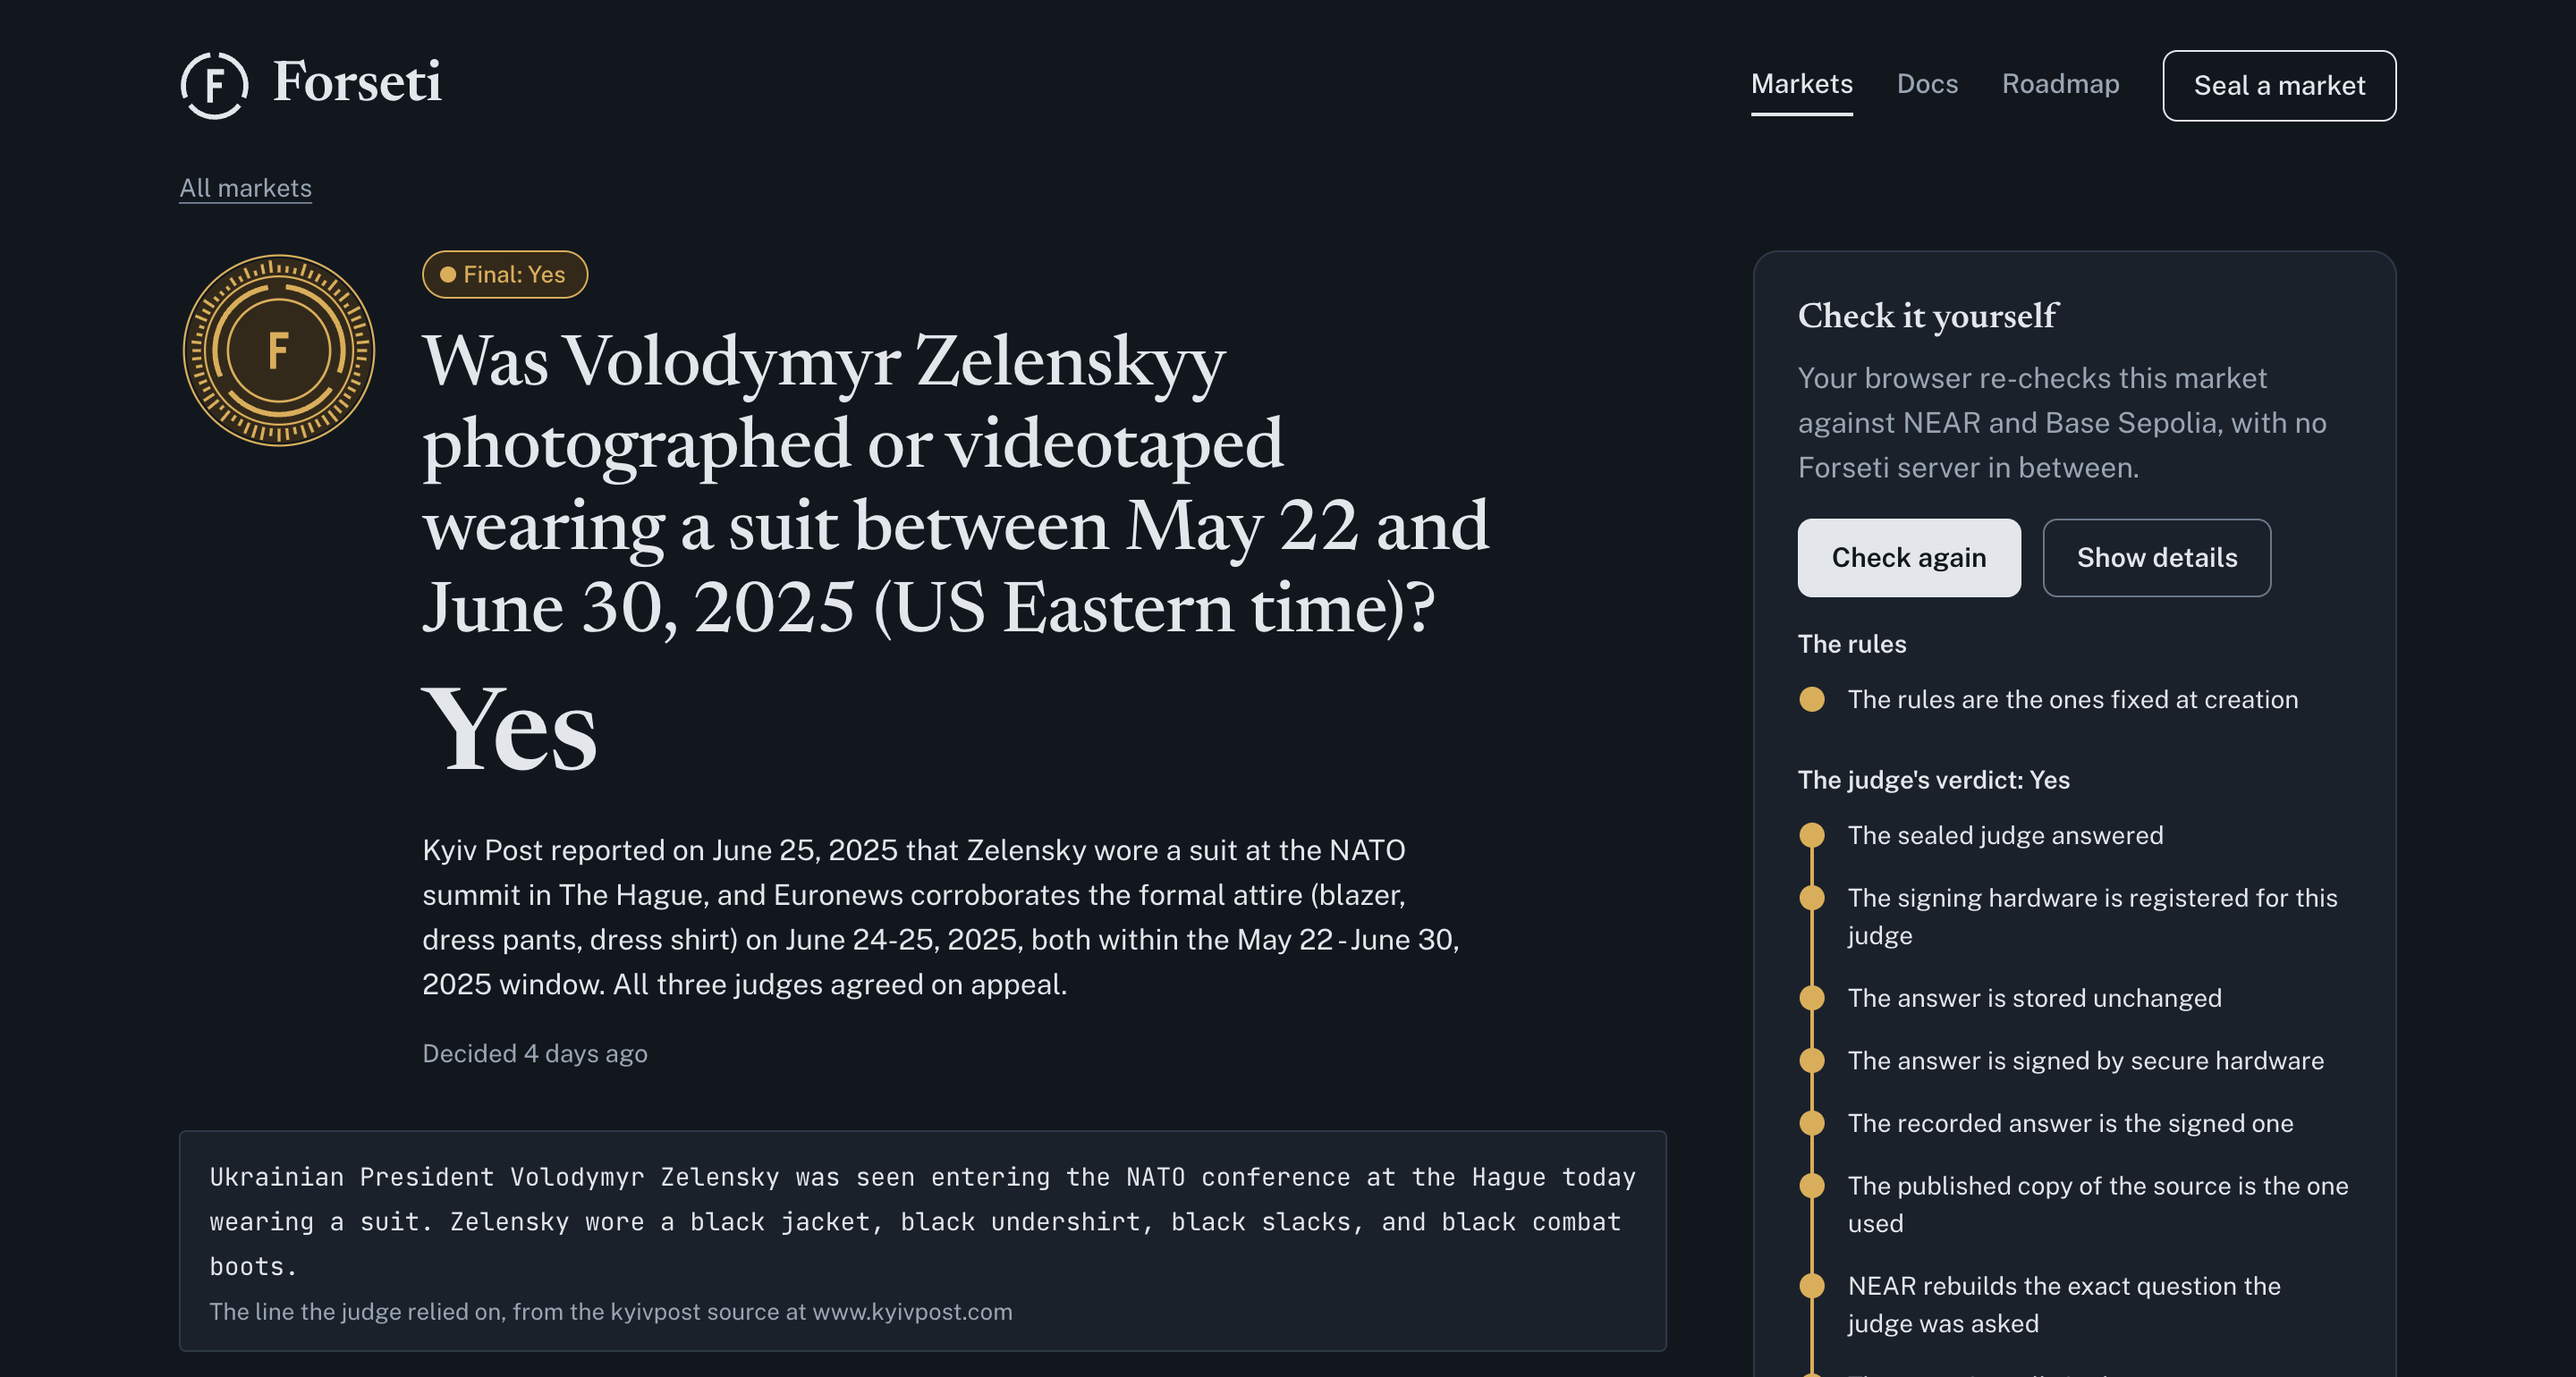
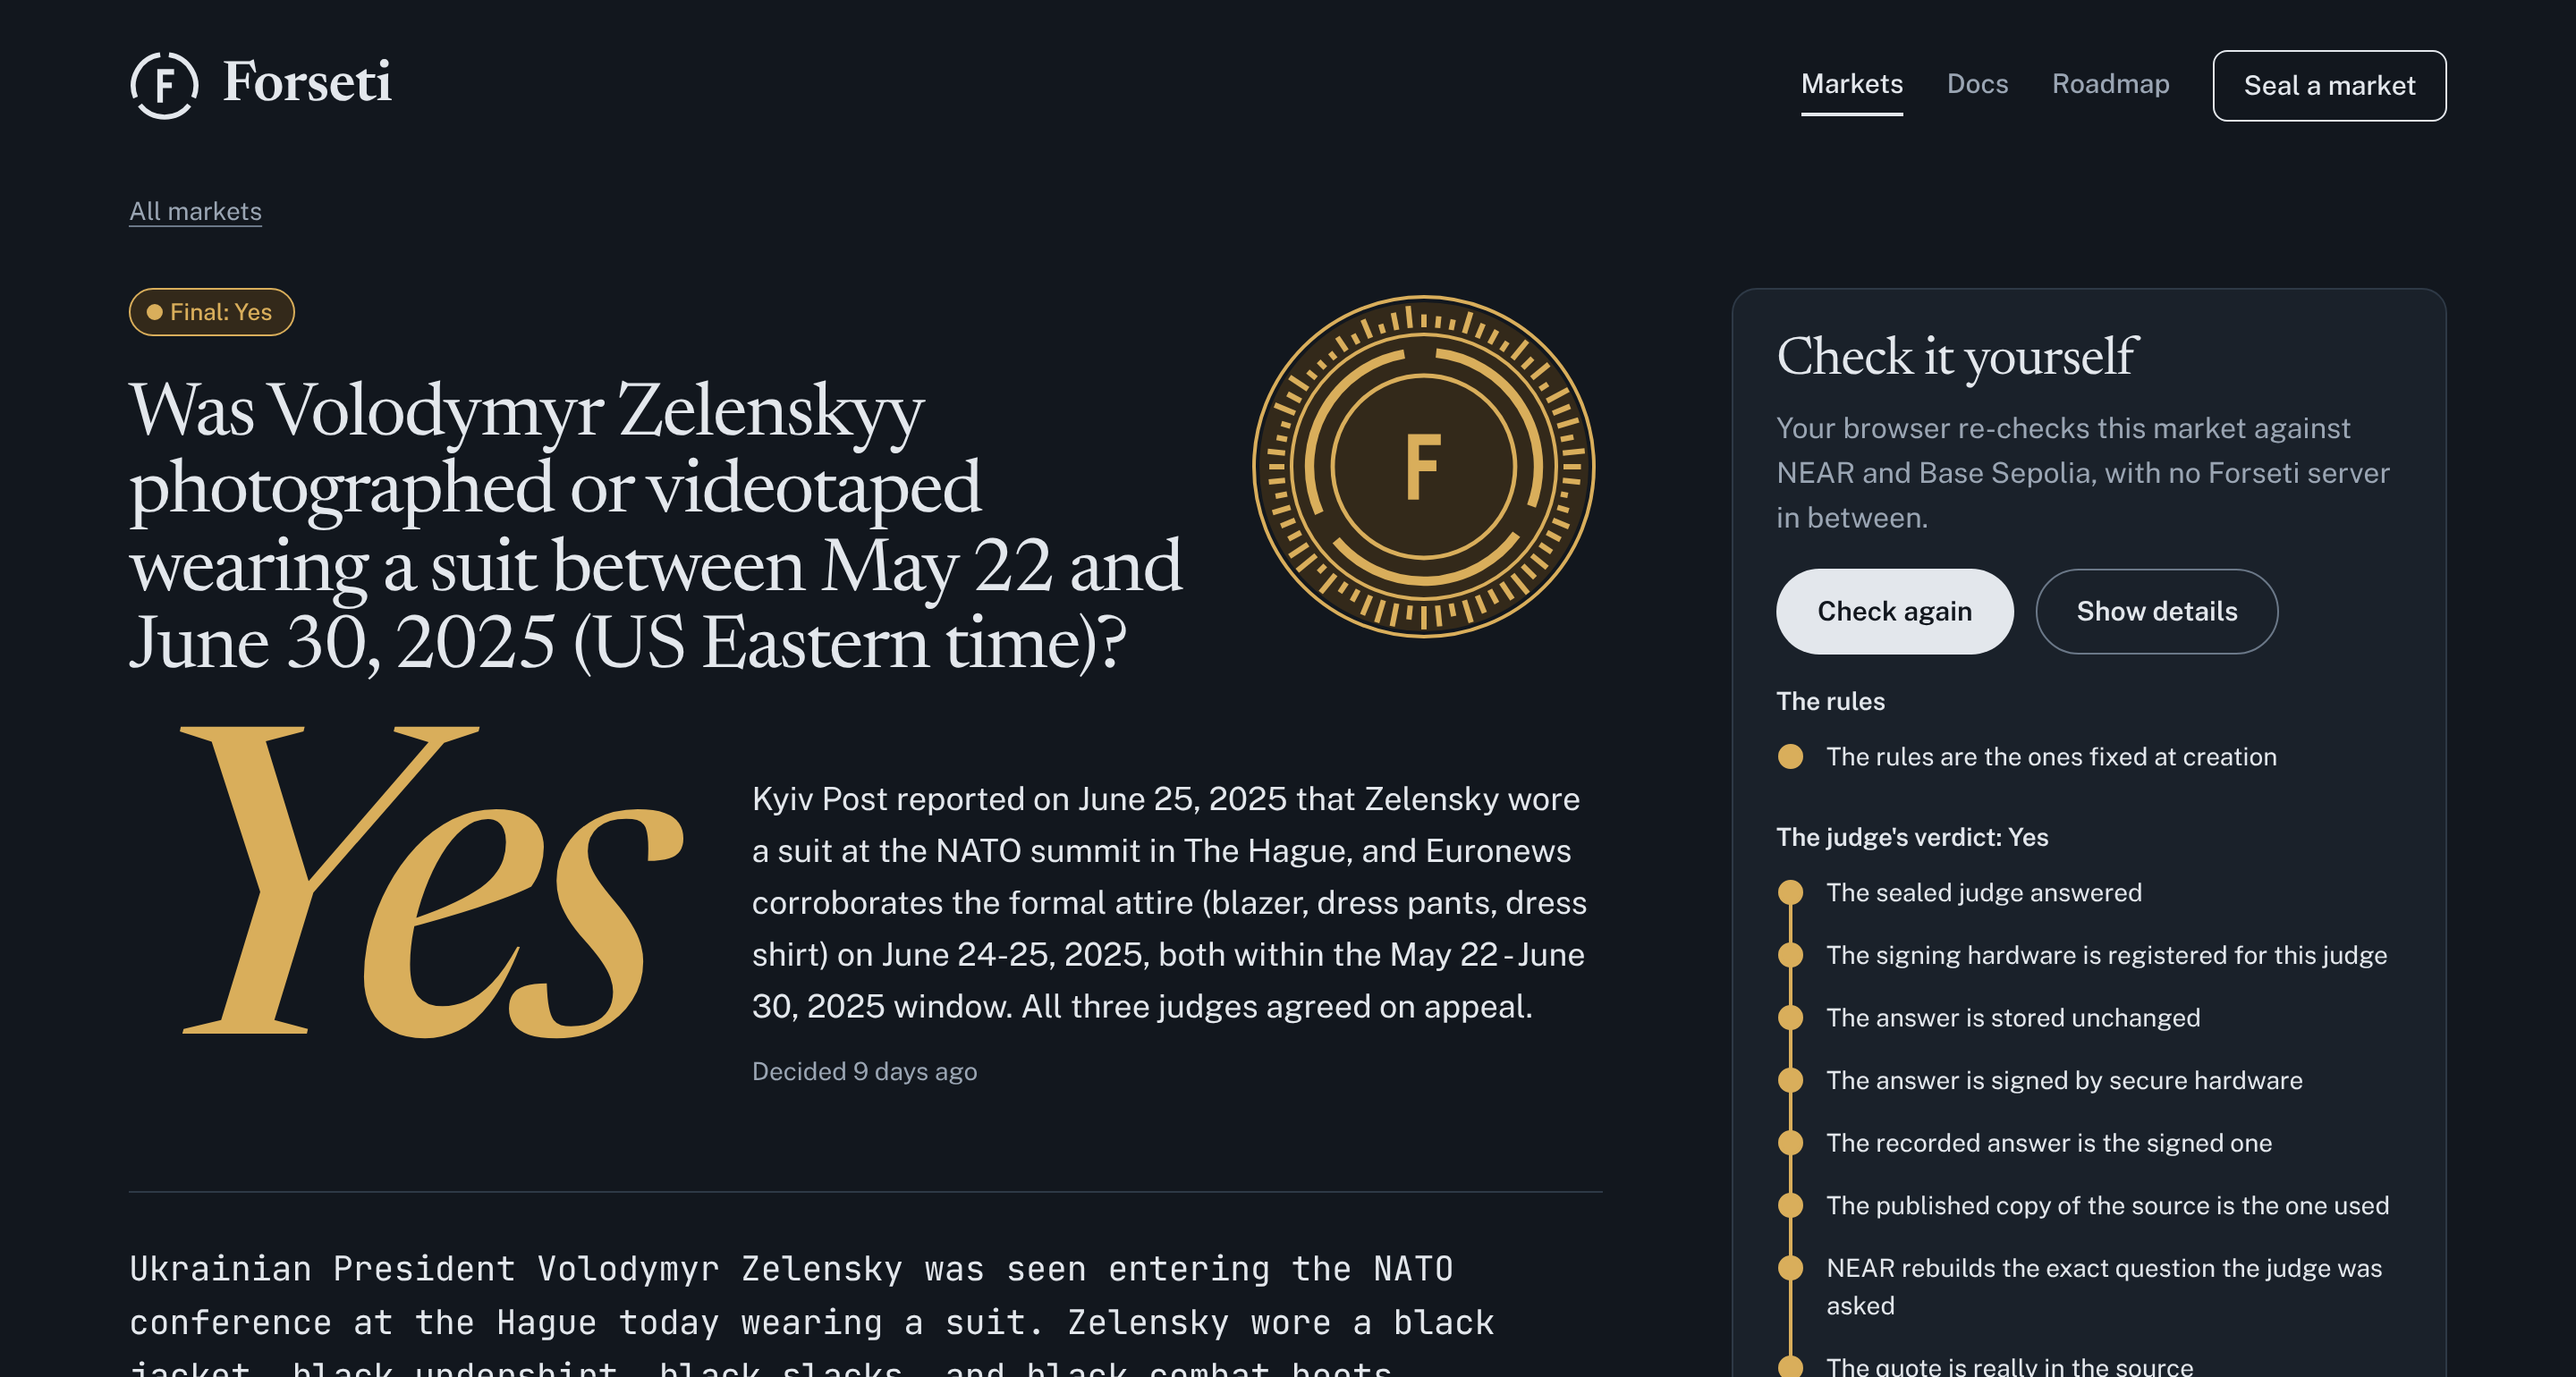
README: market 4 as it looks now
The screenshot at the top of the README showed the market page before
the redesign. It is the same crop of the same market, taken from the
live contract after Check it yourself: all 39 checks pass.

Also drops a wrapper on Seal a market that no rule used.

diff --git a/web/app.js b/web/app.js
@@ -1080,7 +1080,6 @@ async function api(path, body) {
 const EMPTY_HASH = '0x'.padEnd(66, '0');
 function newMarket() {
   app.innerHTML = `
-    <div class="new-page">
     <div class="page-head">
       <h1 class="page-title">Seal a <em>market</em></h1>
       <p class="page-lede">Write a question and its rules, or start from a market on Polymarket. Three sealed judges read your wording first, then you seal it on NEAR testnet. Trading closes two minutes later, and you watch the judge decide on secure hardware, NEAR check the answer and Base Sepolia receive it. No wallet or key needed: a demo account pays the gas.</p>
@@ -1120,8 +1119,7 @@ function newMarket() {
         <li><span class="step-n" aria-hidden="true">3</span><p>Two minutes later the judge answers, and NEAR checks the signature and the quote.</p></li>
         <li class="step-final"><span class="step-n" aria-hidden="true">4</span><p>After a two-minute appeal window the verdict is final, signed by NEAR Chain Signatures and recorded on Base Sepolia.</p></li>
       </ol>
-    </section>
-    </div>`;
+    </section>`;
   const form = document.getElementById('new');
   const $ = (id) => document.getElementById(id);
   const out = $('new-out');
